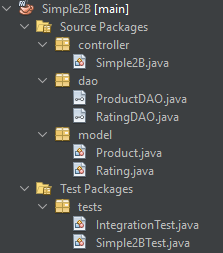
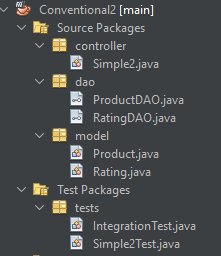
upload source code

Changed region(s): [[0.0, 0.0, 0.8959, 0.996], [0.1357, 0.996, 0.19, 1.0]]

diff --git a/src/test/java/tests/Conventional2Test.java b/src/test/java/tests/Conventional2Test.java
@@ -1,28 +1,28 @@
 package tests;
 
-import controller.Simple2;
+import controller.Conventional2;
 import static org.junit.jupiter.api.Assertions.assertEquals;
 import org.junit.jupiter.api.Test;
 
-public class Simple2Test {
+public class Conventional2Test {
 
     @Test
     void testCountRatingEqual5ByNutFusion() {
-        Simple2 app = new Simple2();
+        Conventional2 app = new Conventional2();
         int total = app.countRatingEqual5ByBrand("NutFusion");
         assertEquals(6, total);
     }
 
     @Test
     void testCountRatingEqual5ByPastaPro() {
-        Simple2 app = new Simple2();
+        Conventional2 app = new Conventional2();
         int total = app.countRatingEqual5ByBrand("PastaPro");
         assertEquals(13, total);
     }
 
     @Test
     void testCountRatingEqual5ByChocoLux() {
-        Simple2 app = new Simple2();
+        Conventional2 app = new Conventional2();
         int total = app.countRatingEqual5ByBrand("ChocoLux");
         assertEquals(12, total);
     }

diff --git a/src/main/java/controller/Conventional2.java b/src/main/java/controller/Conventional2.java
@@ -4,12 +4,12 @@ import dao.ProductDAO;
 import dao.RatingDAO;
 import ef.qb.core.QueryBuilder;
 
-public class Simple2 {
+public class Conventional2 {
 
     private static ProductDAO productDAO;
     private static RatingDAO ratingDAO;
 
-    public Simple2() {
+    public Conventional2() {
         productDAO = QueryBuilder.create(ProductDAO.class);
         ratingDAO = QueryBuilder.create(RatingDAO.class);
     }
